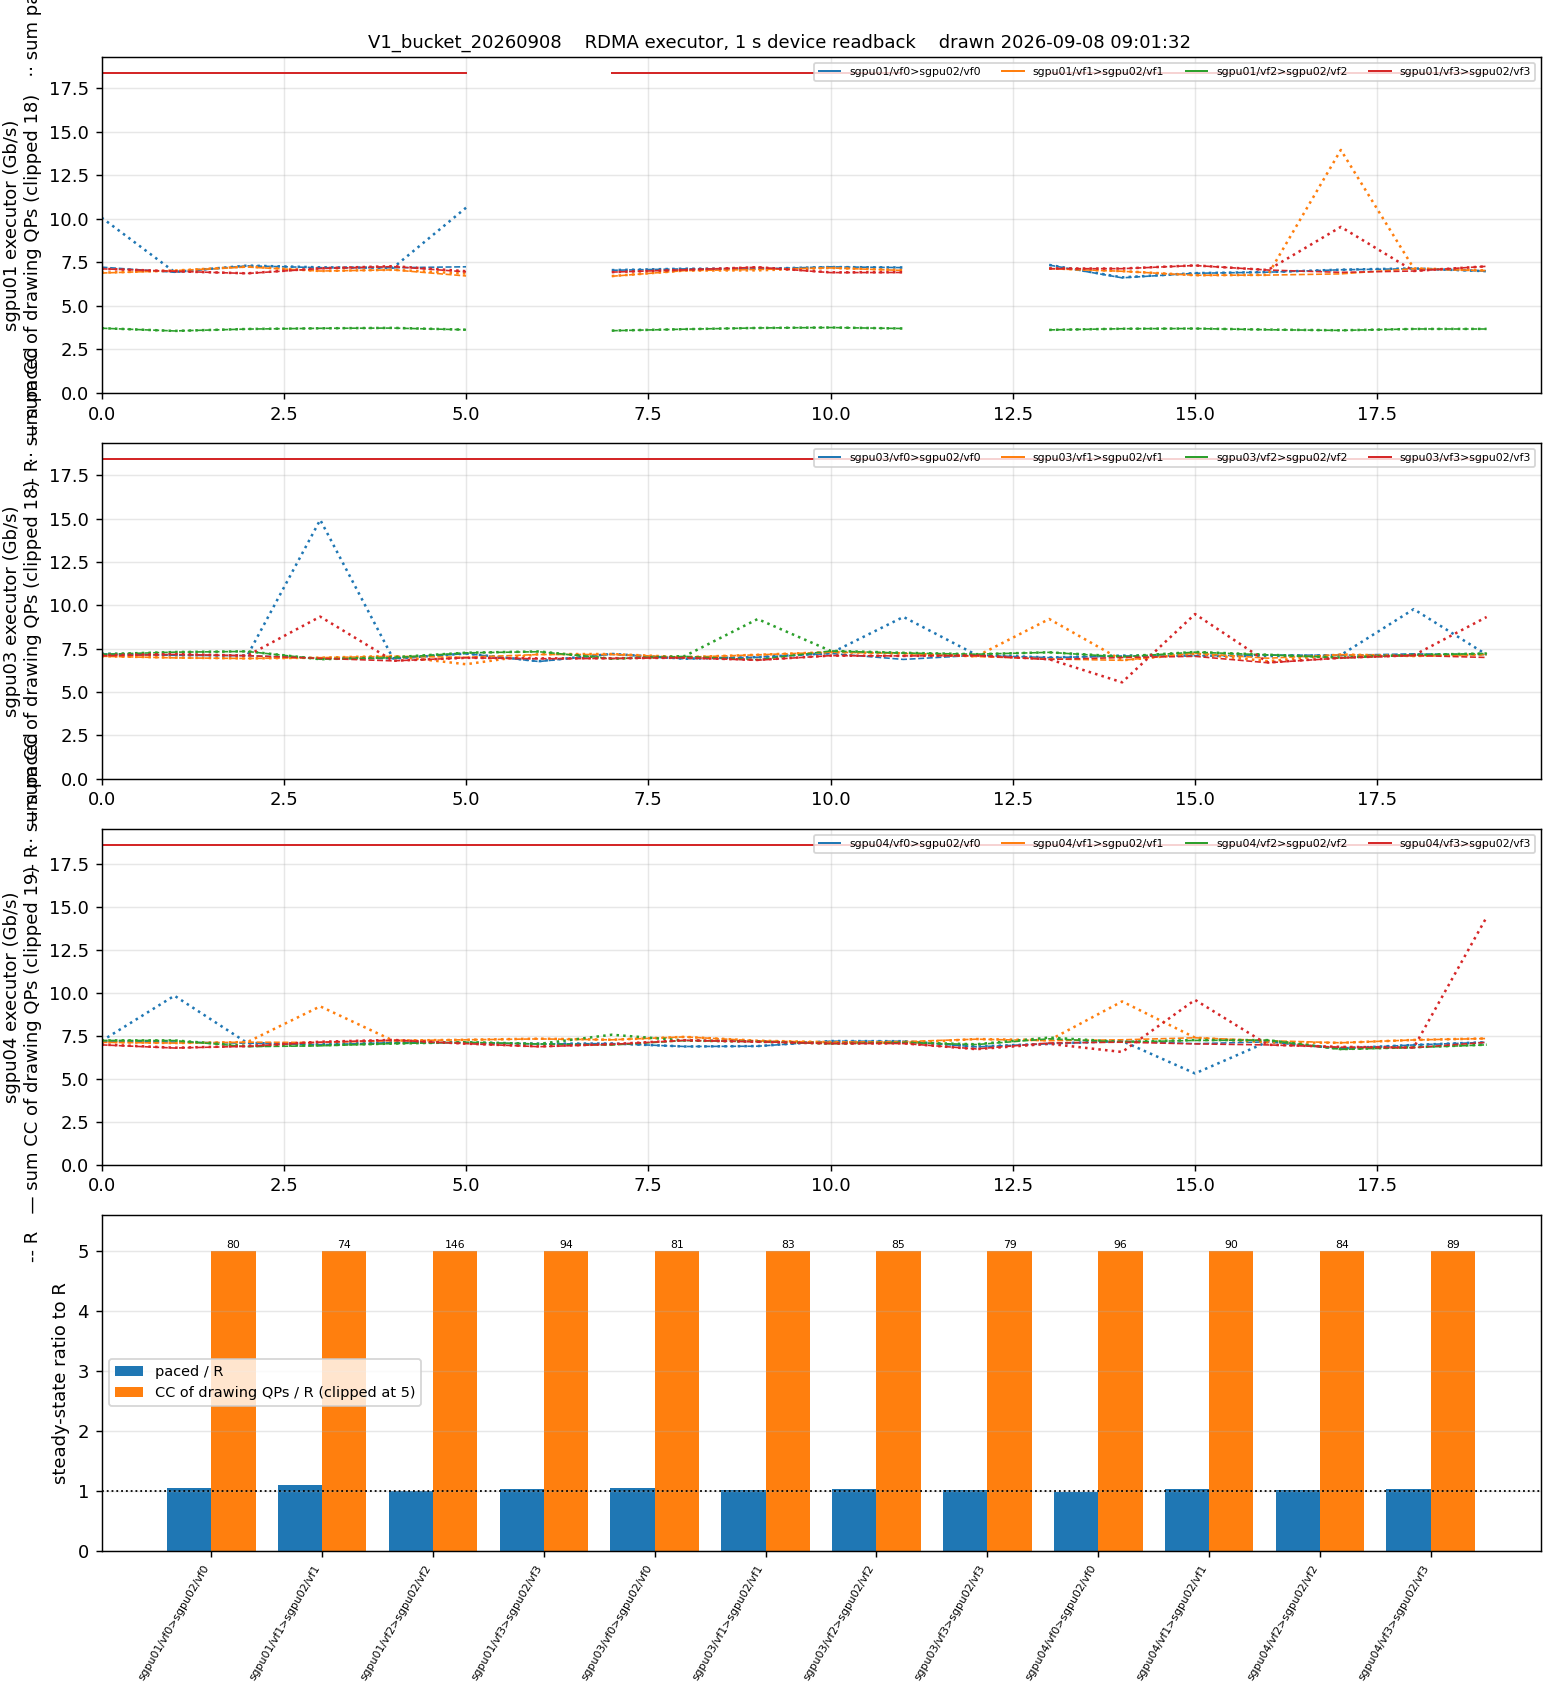
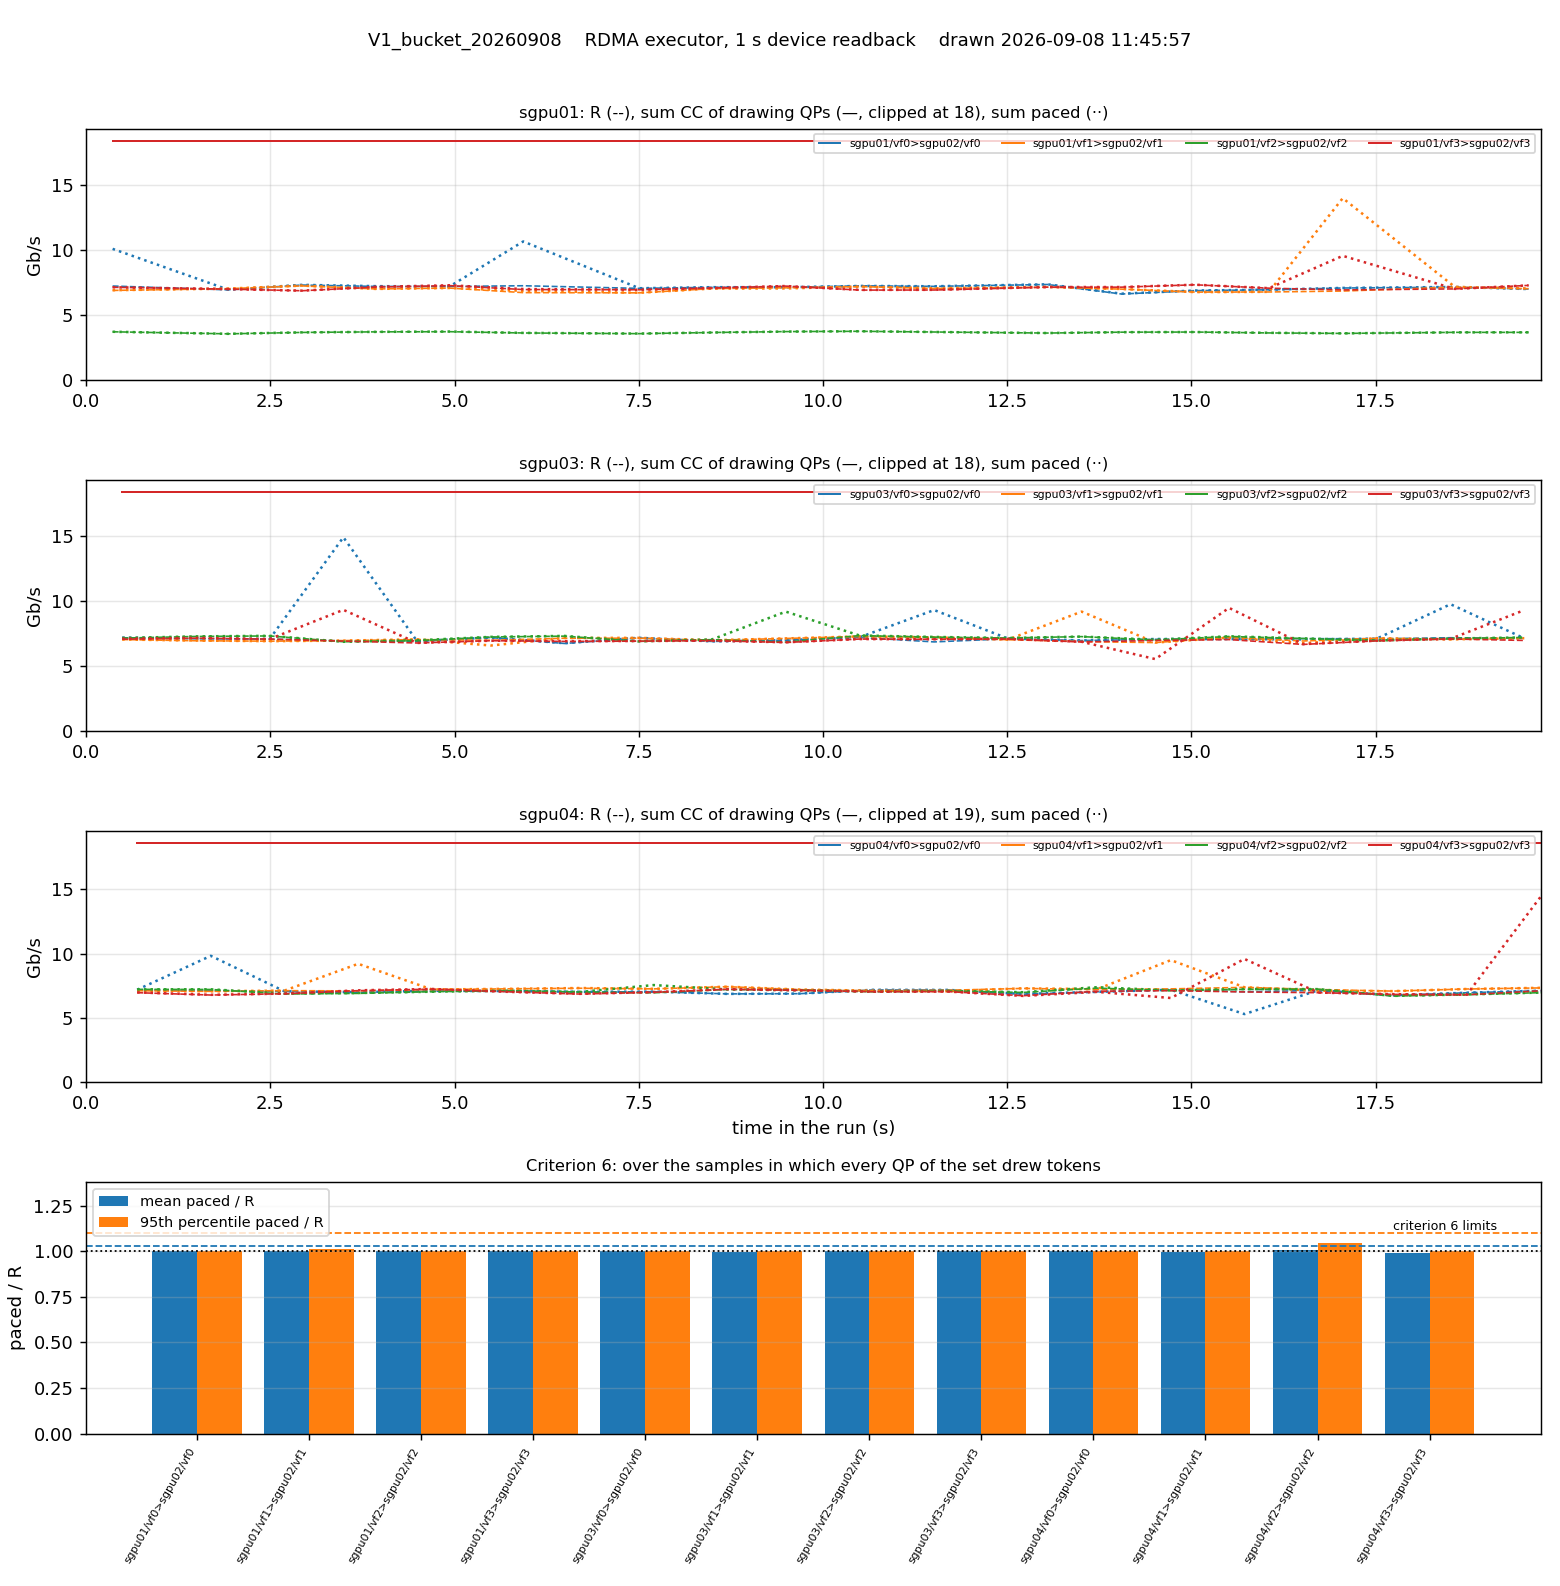
执行面采样与图：分摊全表重扫，并删掉邮箱快慢两态的叙述
采样器每 5 秒把 32 个槽位一次扫完，这一遍在每次运行的某一台发送端上要
1.55 秒，超过 1 秒的采样周期，于是每 5 秒丢掉整整一秒的样本；画图按 1 秒
一格取均值，空格子成 NaN，一个丢失的样本在图上就是两秒宽的断口。改为已知
槽位每拍都查、其余的每拍轮扫几个，5 秒内仍覆盖全表，任何一拍都不超周期。

executor.py 改为按样本自己的时间戳画，只有相隔超过 3 秒才断线，也就是只在
流集合真的不在时才断；纵轴的线型说明移进面板标题（原先三个面板的 ylabel
互相压住）；最下面一排柱子从"取令牌 QP 的 CC 之和 ÷ R"（数值 80–146、截断
在 5，说明不了什么）换成判据 6 真正判的两个量，并画上 1.03 与 1.10 两条门限。
V1–V8 的执行面主图用现有数据重画；V2 的两张图原先出自已删除的消融轮
V2_baseB，改由 V2_bucket_20260908 画。

邮箱的快慢两态删掉：pairjitter_20260831 第八节已经定论它不在控制路径上、
对稳态没有可测影响，run.sh 的模式测量与 mailbox_mode.txt 只是死重量，而且
本轮六次读数都在 14.3–16.3 ms，两态的标签本身也对不上。一趟邮箱的开销按
约 16 ms 写。采样器那一遍变慢与模式无关：V1 里三台都读到 16.3 ms，只有一台
被拖长。

diff --git a/validation/plot/executor.py b/validation/plot/executor.py
@@ -6,8 +6,14 @@
   executor programmed (dotted), one colour per flow-set. Where the solid line
   is above the dashed one the bucket binds and the dotted line should sit on
   the dashed one; where it is below, the dotted line should follow the solid
-  one. A last panel gives, per flow-set, the steady-state ratios paced/R and
-  cc_live/R as bars.
+  one. The last panel is criterion 6 itself: per flow-set, the mean and the
+  95th percentile of paced/R over the samples in which every QP of the set was
+  drawing, against the thresholds the criterion uses.
+
+A line breaks only where the flow-set was genuinely absent from the readback
+for longer than GAP_S; a single missing sample (the sampler's own pass now and
+then overrunning its one second period) is drawn through, not gapped.
+
 Reads only data/<tag>_executor.csv and data/<tag>_executor_summary.csv
 (distill.py output).
 
@@ -18,13 +24,16 @@ import csv, os, sys, time
 import numpy as np
 import matplotlib; matplotlib.use("Agg")
 import matplotlib.pyplot as plt
+from matplotlib.lines import Line2D
 BASE = os.path.dirname(os.path.dirname(os.path.abspath(__file__)))
 tags = [t for t in sys.argv[1].split(",") if t]
 base = sys.argv[2] if len(sys.argv) > 2 else tags[0].split("_")[0]
 D = os.path.join(BASE, "data")
+GAP_S = 3.0                 # longer than this and the flow-set really was gone
+EX_OVER_MEAN, EX_OVER_P95 = 1.03, 1.10      # criterion 6, same as distill.py
 
 series = {}      # (host, fsid, field) -> list of (t, v) over all runs
-summ = {}        # fsid -> list of (paced/R, cc_live/R) over runs
+summ = {}        # fsid -> list of (mean paced/R, p95 paced/R) over runs
 end = 0.0
 for tag in tags:
     with open(os.path.join(D, f"{tag}_executor.csv")) as f:
@@ -34,61 +43,73 @@ for tag in tags:
                 series.setdefault((r["host"], r["fsid"], fld), []).append((t, float(r[fld])))
     with open(os.path.join(D, f"{tag}_executor_summary.csv")) as f:
         for r in csv.DictReader(f):
-            summ.setdefault(r["fsid"], []).append((float(r["mean_paced_over_R"]), float(r["mean_cc_live_over_R"])))
+            if r["all_live_mean_paced_over_R"]:
+                summ.setdefault(r["fsid"], []).append((float(r["all_live_mean_paced_over_R"]),
+                                                       float(r["all_live_p95_paced_over_R"])))
 hosts = sorted({h for h, _, _ in series})
 if not hosts:
     print("no executor samples"); sys.exit(0)
-grid = np.arange(0, end + 1.0, 1.0)
-# At a managed port the tenant CC sees no congestion and its per-QP rate sits
-# at line rate, so the sum over a set's QPs is hundreds of Gb/s; the
-# interesting part of the picture is where it dips below R. Clip for drawing.
-RATIO_CLIP = 5.0
 
 
-def binned(pts):
-    out = np.full(len(grid), np.nan)
+def xy(key):
+    """(t, v) for one line. Several runs are averaged on a 1 s grid so they can
+    be overlaid; a single run is drawn on its own sample times, which is what
+    keeps an over-long sampling pass from opening a hole in the line."""
+    pts = sorted(series.get(key, []))
     if not pts:
-        return out
-    T = np.array([t for t, _ in pts]); V = np.array([v for _, v in pts])
-    idx = np.floor(T - grid[0]).astype(int)
-    for i in range(len(grid)):
-        m = idx == i
-        if m.any():
-            out[i] = V[m].mean()
-    return out
+        return np.array([]), np.array([])
+    if len(tags) > 1:
+        acc = {}
+        for t, v in pts:
+            acc.setdefault(int(np.floor(t)), []).append(v)
+        pts = [(k + 0.5, float(np.mean(v))) for k, v in sorted(acc.items())]
+    T, V = [], []
+    for i, (t, v) in enumerate(pts):
+        if i and t - pts[i - 1][0] > GAP_S:
+            T.append(np.nan); V.append(np.nan)
+        T.append(t); V.append(v)
+    return np.array(T), np.array(V)
 
 
-fig, ax = plt.subplots(len(hosts) + 1, 1, figsize=(12, 3.2 * len(hosts) + 3.5))
+fig, ax = plt.subplots(len(hosts) + 1, 1, figsize=(12, 3.0 * len(hosts) + 3.2))
 ax = np.atleast_1d(ax)
 for j, h in enumerate(hosts):
     a = ax[j]
     fss = sorted({f for hh, f, _ in series if hh == h})
     rmax = max([max(v for _, v in series[(h, f, "R_gbps")]) for f in fss] + [1.0])
-    CC_CLIP = 2.5 * rmax        # clip at 2.5 x the largest R of this panel
+    # at a managed port the tenant CC sees no congestion and its per-QP rate
+    # sits at line rate, so the sum over a set's QPs is hundreds of Gb/s; the
+    # part of the picture that matters is where it dips below R
+    CC_CLIP = 2.5 * rmax
     for i, f in enumerate(fss):
         c = f"C{i % 10}"
-        a.plot(grid, binned(series[(h, f, "R_gbps")]), color=c, ls="--", lw=0.9)
-        a.plot(grid, np.minimum(binned(series[(h, f, "cc_live_gbps")]), CC_CLIP), color=c, ls="-", lw=1.1, label=f.split(">")[0] + ">" + f.split(">")[1].split("|")[0])
-        a.plot(grid, binned(series[(h, f, "paced_gbps")]), color=c, ls=":", lw=1.4)
-    a.set_ylabel(f"{h} executor (Gb/s)\n-- R   — sum CC of drawing QPs (clipped {CC_CLIP:.0f})   ·· sum paced")
+        a.plot(*xy((h, f, "R_gbps")), color=c, ls="--", lw=0.9)
+        T, V = xy((h, f, "cc_live_gbps"))
+        a.plot(T, np.minimum(V, CC_CLIP), color=c, ls="-", lw=1.1,
+               label=f.split(">")[0] + ">" + f.split(">")[1].split("|")[0])
+        a.plot(*xy((h, f, "paced_gbps")), color=c, ls=":", lw=1.4)
+    a.set_ylabel("Gb/s"); a.set_title(f"{h}: R (--), sum CC of drawing QPs (—, clipped at {CC_CLIP:.0f}), sum paced (··)", fontsize=9)
     a.grid(alpha=0.3); a.set_xlim(0, end); a.set_ylim(0, CC_CLIP * 1.05)
     if fss:
         a.legend(fontsize=6, ncol=4, loc="upper right")
+    if j == len(hosts) - 1:
+        a.set_xlabel("time in the run (s)")
 b = ax[-1]
 names = sorted(summ)
 x = np.arange(len(names))
-pr = [np.mean([v[0] for v in summ[n]]) for n in names]
-cr = [np.mean([v[1] for v in summ[n]]) for n in names]
-b.bar(x - 0.2, pr, 0.4, label="paced / R", color="#1f77b4")
-b.bar(x + 0.2, np.minimum(cr, RATIO_CLIP), 0.4, label=f"CC of drawing QPs / R (clipped at {RATIO_CLIP:.0f})", color="#ff7f0e")
-for xi, v in zip(x, cr):
-    if v > RATIO_CLIP:
-        b.text(xi + 0.2, RATIO_CLIP + 0.05, "%.0f" % v, ha="center", fontsize=6)
+mn = [np.mean([v[0] for v in summ[n]]) for n in names]
+p95 = [np.mean([v[1] for v in summ[n]]) for n in names]
+b.bar(x - 0.2, mn, 0.4, label="mean paced / R", color="#1f77b4")
+b.bar(x + 0.2, p95, 0.4, label="95th percentile paced / R", color="#ff7f0e")
 b.axhline(1.0, color="k", ls=":", lw=1)
+b.axhline(EX_OVER_MEAN, color="#1f77b4", ls="--", lw=1)
+b.axhline(EX_OVER_P95, color="#ff7f0e", ls="--", lw=1)
+b.text(len(names) - 0.4, EX_OVER_P95, " criterion 6 limits", fontsize=7, va="bottom", ha="right")
 b.set_xticks(x); b.set_xticklabels([n.split("|")[0] for n in names], rotation=60, ha="right", fontsize=6)
-b.set_ylabel("steady-state ratio to R"); b.set_ylim(0, RATIO_CLIP + 0.6); b.grid(alpha=0.3, axis="y"); b.legend(fontsize=8)
+b.set_ylabel("paced / R"); b.set_title("Criterion 6: over the samples in which every QP of the set drew tokens", fontsize=9)
+b.set_ylim(0, max([1.2] + p95) * 1.15); b.grid(alpha=0.3, axis="y"); b.legend(fontsize=8)
 title = tags[0] if len(tags) == 1 else f"mean of {len(tags)}: " + ", ".join(tags)
 fig.suptitle(f"{title}    RDMA executor, 1 s device readback    drawn {time.strftime('%Y-%m-%d %H:%M:%S')}", fontsize=10)
-fig.tight_layout()
+fig.tight_layout(rect=(0, 0, 1, 0.97))
 os.makedirs(os.path.join(BASE, "fig"), exist_ok=True)
 fig.savefig(os.path.join(BASE, "fig", f"{base}_executor.png"), dpi=130); print("ok")

diff --git a/tools/dpu/rp_sample.py b/tools/dpu/rp_sample.py
@@ -3,9 +3,13 @@
 
 Writes "0xded <slot>" queries into the RP FIFO and reads the HPFT_RSP lines
 the RP host process prints to /tmp/pcc_rp.log. Each query costs one mailbox
-send (13-22 ms), so only the slots that hold a flow set are queried after the
-first full scan; every RESCAN_S seconds all slots are scanned again so a flow
-set that appears later (a join) is picked up.
+round (about 16 ms) plus the wait for its answer, and it shares the FIFO with
+the sender agent's budget pushes, so the slots known to hold a flow set are
+queried every pass and the rest are swept a few at a time, round robin: a flow
+set that appears later (a join) is picked up within RESCAN_S without any
+single pass overrunning the sampling period. Sweeping all 32 slots in one pass
+cost 1.55 s on one sender per run, which skipped a whole second of samples
+every five seconds and broke the executor figure's lines.
 
 The readback (rp_rtt_template_dev_main.c, 0xded) is, per flow set: id, R
 (the ledger's budget), the sum of the paced rates of its QPs, the sum of the
@@ -58,29 +62,29 @@ def query(slots):
 
 
 t_end = time.time() + dur
-live = None
-t_scan = 0.0
+live = set()                 # slots that answered with a flow set
+sweep = 0                    # next slot of the round-robin sweep
+# how many idle slots to sweep per pass so the whole table is covered within
+# RESCAN_S; the sweep is what finds a flow set that joins mid-run
+per_pass = max(1, int(NSLOT * itv / RESCAN_S + 0.999))
 with open(out, "w") as o:
     while time.time() < t_end:
         t = time.time()
-        full = live is None or t - t_scan >= RESCAN_S
-        slots = list(range(NSLOT)) if full else live
-        if full:
-            t_scan = t
-        answered = []
-        for s, m in query(slots):
-            if not m:
-                continue
-            sid = int(m.group(1), 16)
+        extra = []
+        for _ in range(per_pass):
+            if sweep not in live:
+                extra.append(sweep)
+            sweep = (sweep + 1) % NSLOT
+        for s, m in query(sorted(live) + extra):
+            sid = int(m.group(1), 16) if m else 0
             if not sid:
+                live.discard(s)
                 continue
-            answered.append(s)
+            live.add(s)
             rec = {"ts": round(t, 3), "slot": s, "id": "0x%08x" % sid,
                    "R": round(gbps(int(m.group(2))), 3), "paced": round(gbps(int(m.group(3))), 3),
                    "cc": round(gbps(int(m.group(4))), 3), "cc_live": round(gbps(int(m.group(5))), 3),
                    "nlive": int(m.group(6)), "nq": int(m.group(7))}
             o.write(json.dumps(rec) + "\n")
         o.flush()
-        if full and answered:
-            live = answered
         time.sleep(max(0.0, itv - (time.time() - t)))

diff --git a/tools/dpu/tx_agent_e.py b/tools/dpu/tx_agent_e.py
@@ -1437,7 +1437,7 @@ def main():
             mailbox.ensure_open()
             # One 0xb47f line per push carrying every flow set's R; the
             # host-side forwarder keeps only the newest of these when the
-            # mailbox (13-22 ms per round) falls behind the push period.
+            # mailbox (about 16 ms per round) falls behind the push period.
             # Bindings are incremental and rare, and go out as their own
             # line only when there is something new.
             mailbox.write_sets(sorted(latest_rdma.items()))

diff --git a/docs/IMPLEMENTATION.md b/docs/IMPLEMENTATION.md
@@ -22,7 +22,7 @@
 
 ## 3 设计里的规则在实现里怎么传递
 
-**流集合的水位 $R$（6.2 节）**：发送端代理每 `rdma_push_ms`（5 毫秒）把所有流集合的 $\min(R,U)$ 写成一行 `0xb47f|n {流集合号, 水位}` 进 FIFO；`pcc_host.c` 只把最新的一行送进邮箱（一次邮箱 13 到 22 毫秒，比推送慢，多余的快照丢弃而不排队）。流集合号是注册表里那一对的 flowtag，只当名字用。TCP 的水位走 UDP 到主机的 pace shim，再写 `hpft_pair_cfg`，同一个数每 100 毫秒重发一次。
+**流集合的水位 $R$（6.2 节）**：发送端代理每 `rdma_push_ms`（5 毫秒）把所有流集合的 $\min(R,U)$ 写成一行 `0xb47f|n {流集合号, 水位}` 进 FIFO；`pcc_host.c` 只把最新的一行送进邮箱（一次邮箱约 16 毫秒，比推送慢，多余的快照丢弃而不排队）。流集合号是注册表里那一对的 flowtag，只当名字用。TCP 的水位走 UDP 到主机的 pace shim，再写 `hpft_pair_cfg`，同一个数每 100 毫秒重发一次。
 
 **QP 归属（6.4 节）**：解析器每 0.2 秒把本机全部已配对的 QP 表发给代理，代理每次按整表重建，键是 `vhca_id << 24 | qpn`，只把新的或变了的绑定以 `0xb48e|n {键, 流集合号}` 下发；执行面在 QP 的第一个发送事件上学到它的 QPN 与 vhca_id，查表绑定。PCC 框架交给算法的 per-flow 上下文不是严格一 QP 一份：实测同一份上下文里会轮流出现两个 QP 的事件（vf1 的 578 与 vf3 的 294；每个 VF 的 QP1 与它的数据 QP），所以执行面自己按 (vhca_id, QPN) 建 QP 记录表，上下文只当缓存提示，事件里的键与提示不符就查表、查不到才分配；沉默超过 2 s 的 QP 视为离开而解绑，代理的映射表里这个 QP 的流集合号变了也解绑（解析器对上一场残留的 QP 可能先给出错配，现在解析器只配对 RTS 态的 QP），下一个发送事件重新查表。执行面重启（每场实验前 `rp_service.sh start`）后设备内存清空，代理靠 FIFO 的 inode 变化察觉并把整表重发。校验绑定是否完整看 `0xded` 回读的在册数是否等于流集合的 QP 数（`validation/data/<tag>_executor.csv`）。
 
@@ -76,6 +76,6 @@ TCP 执行面没有旋钮：`hpft_pair_cfg` 里速率为零即不整形，`quick
 
 **表的大小是编译期常量**，都在设备的全局内存里：QP 记录 1024 条（每条约 150 字节）、流集合 32 个（每个最多 128 个 QP）、绑定表 2048 项、记录索引 4096 项，合计约 220 KB。上到几千条流要把这几个常数放大，DPA 全局内存的上限要实测（改大后 `dpacc` 链接会报）。
 
-**主机到设备的邮箱是先到的瓶颈。** 一次 `doca_pcc_mailbox_send` 13 到 22 毫秒，请求 512 字节（`PCC_MAILBOX_REQUEST_SIZE`），一行 `0xb47f` 最多装 63 个流集合的水位、一行 `0xb48e` 最多装 63 个绑定；发送端代理每 5 毫秒推一次全部水位，`pcc_host.c` 只送最新的一行。流集合超过 63 个就要多行，每行一次邮箱：几百个流集合时一轮刷新要几十到上百毫秒，比账本的周期还长。改法有两个，可以叠加：`doca_pcc_set_mailbox` 把请求放大到几 KB（上限待测）；代理只推变化超过阈值的水位而不是整表。几千条流落在几十个流集合里时不受此限。
+**主机到设备的邮箱是先到的瓶颈。** 一次 `doca_pcc_mailbox_send` 约 16 毫秒（实测 14 到 22），请求 512 字节（`PCC_MAILBOX_REQUEST_SIZE`），一行 `0xb47f` 最多装 63 个流集合的水位、一行 `0xb48e` 最多装 63 个绑定；发送端代理每 5 毫秒推一次全部水位，`pcc_host.c` 只送最新的一行。流集合超过 63 个就要多行，每行一次邮箱：几百个流集合时一轮刷新要几十到上百毫秒，比账本的周期还长。改法有两个，可以叠加：`doca_pcc_set_mailbox` 把请求放大到几 KB（上限待测）；代理只推变化超过阈值的水位而不是整表。几千条流落在几十个流集合里时不受此限。
 
 **主机侧解析器**每 0.2 秒对每个对端 `rdma res show qp` 并把整表发给代理（一个 UDP 报文最多约 60 KB，每行约 30 字节，两千条 QP 一个报文），代理按整表重建绑定，只把变化下发。几千条 QP 时 `rdma res show qp` 本身的耗时（每千条几十毫秒）决定了新 QP 多久能绑上。
